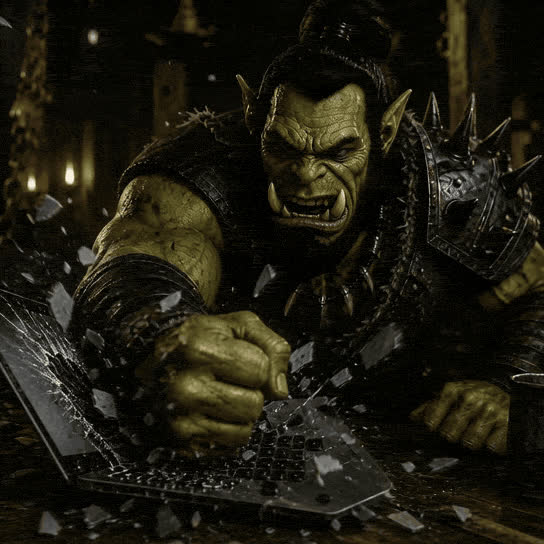
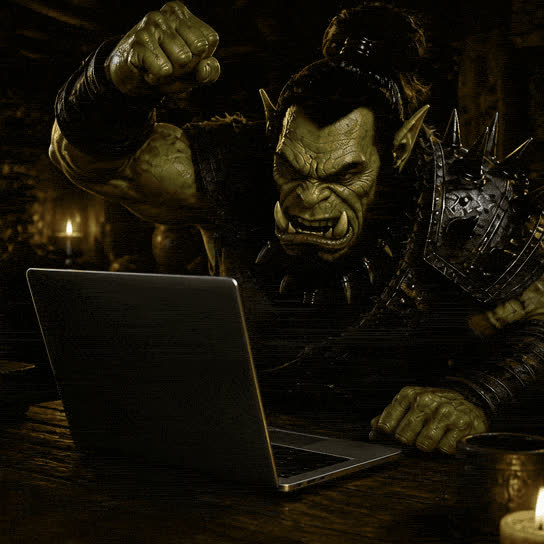
Reshoot Smash so it starts intact, then slams the laptop.

diff --git a/scripts/imagine-video.ts b/scripts/imagine-video.ts
@@ -56,7 +56,7 @@ const PROMPTS: Record<string, string> = {
   sleep:
     "The orc sleeps, chest rising and falling, a tiny sleepy sway. Soft breathing motion. Locked camera.",
   smash:
-    "The orc slams his fist down hard onto the laptop, keys and shards flying, a short smash, fierce look holding. Locked camera.",
+    "He starts staring at the intact laptop, fist raised, about to smash. Then he slams his fist through the laptop, keys and shards flying, fierce look holding. Locked camera.",
   spotted:
     "The orc's eyes widen as he realizes he has been seen, a small caught flinch toward the camera. Locked camera.",
   stars:
